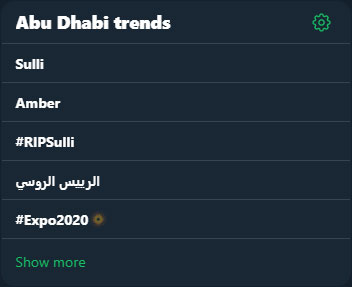
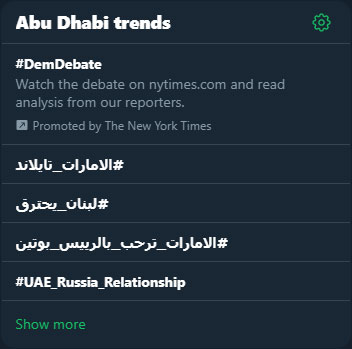
Update

diff --git a/_posts/2019-10-24-eliminate-distractions.md b/_posts/2019-10-24-eliminate-distractions.md
@@ -20,7 +20,27 @@ People talk about social media as if it's always a negative thing and you need t
 
 Think about what you want out of social media and if there's a way to get it. I can use Twitter for my stated purpose by checking it once a day in a 5-15 minute block. Same with Facebook.
 
-## Make Twitter's trending hashtags boring
+## Schedule time for email, texts, and social media
+
+If you've taken some time to reflect on what you want from social media, hopefully your answer isn't, "Email and social media are my taskmasters, so I must check in with them every 15 minutes to decide on my next task." No, once you decide what you want from those tools and how much time you need to invest to get that benefit, schedule it.
+
+This is easiest with social media because there's rarely urgent, critical tasks that result from you checking your Facebook feed.
+
+I'm more present in social situations. I was always a firm believer in "don't interrupt a real life interaction to check your phone." But if my friend went to the bathroom or they had to take a call or something, I'd check my email and texts. I didn't think anything of it, but I realized a huge difference once I committed to not doing that.
+
+Checked Twitter and was in a bad mood because someone said something I found really obnoxious.
+
+I check once I get home.
+
+I schedule
+
+Social media becomes less interesting
+
+Don't check your texts in social situations or during brief breaks.
+
+## Twitter
+
+### Make Twitter's trending hashtags boring
 
 {% include image.html file="twitter-trending.jpg" alt="Twitter's trending topics" max_width="800px" img_link=true class="img-border" fig_caption="Twitter shows you trending topics to seduce you into spending more time in the app." %}
 
@@ -34,7 +54,7 @@ TODO: Replace with better Abu Dhabi.
 
 {% include image.html file="abu-dhabi-trends.jpg" alt="Twitter's trending topics" max_width="352px" img_link=true fig_caption="Twitter shows you trending topics to seduce you into spending more time in the app." %}
 
-## Mute, block, and unfollow your way to a tidy Twitter feed
+### Mute, block, and unfollow your way to a tidy Twitter feed
 
 I enjoyed following celebrities and comedians because they were entertaining, but I realized they were distracting me from my intended purpose on Twitter, which is to maintain professional connections and see when people post interesting technical content.
 
@@ -48,45 +68,36 @@ I think the news is important, but Twitter is not an effective way for me to con
 
 Block celebrities and politicians.
 
-## Hide StackOverflow / StackExchange: ignore "hot" questions
+## StackOverflow / StackExchange
+
+### Ignore "hot questions"
 
 Joke StackOverflow questions:
   * One of my co-workers has no reflection and is constantly drinking blood. Is It Elizabeth Holmes?
   * My (married) manager is currently having a heart attack. Is it inappropriate for me to perform CPR?
   * Accidentally proved P=NP
 
-
-
 Only in writing this article did I realize StackExchange offers a setting so you can disable this natively. In Site Settings > Preferences, you can check "Hide Hot Network Questions":
-
 
 {% assign fig_caption = 'Disable "Hot Network Questions" in [StackOverflow settings](https://stackoverflow.com/users/preferences/) to eliminate distracting questions.' | markdownify | remove: "<p>" | remove: "</p>" %}
 
 {% include image.html file="stackoverflow-settings.jpg" alt="Screenshot of StackOverflow's settings page" max_width="800px" img_link=true class="img-border" fig_caption=fig_caption %}
 
-## Hide your Gmail inbox
+## Email
 
-Inbox when ready
+### Hide your Gmail inbox
+
+A frequent source
+
+[Inbox When Ready](https://inboxwhenready.org/).
+
+If you use a mail client like Outlook or Thunderbird, you can replicate this by disabling automatic e-mail checking.
 
 Haven't solved this on the phone
 
 You can still allow through high-priority emails. You can still check on high-priority threads with search.
 
-## Unbundle Hangouts from Gmail
-
-{% include image.html file="hangouts-in-gmail.jpg" alt="Chat settings in Gmail" max_width="800px" img_link=true class="img-border" fig_caption="By default, Gmail embeds Hangouts into your inbox." %}
-
-{% assign fig_caption = "Disabling chat in [Gmail settings](https://mail.google.com/mail/u/0/#settings/chat)" | markdownify | remove: "<p>" | remove: "</p>" %}
-
-{% include image.html file="gmail-disable-chat.jpg" alt="Chat settings in Gmail" max_width="821px" img_link=true class="img-border" fig_caption=fig_caption %}
-
-## Break your bad habits with obstacles
-
-* Uninstall social media apps from your phone
-* Move social media into separate browser profiles
-* Lock down social media from the browser to limit tracking
-
-## Move your to-do list out of your inbox
+### Move your to-do list out of your inbox
 
 At this point, "don't use your inbox as a to-do list" is pretty cliche advice, but I'll say it anyway. The biggest problem is that if your inbox and your to-do list are the same thing, it's impossible for you to check your to-do list without seeing new emails come in.
 
@@ -96,11 +107,19 @@ Data remanence.
 
 It's bad at prioritizing
 
-## Schedule time for social media
+### Unbundle Hangouts from Gmail
 
-I schedule
+{% include image.html file="hangouts-in-gmail.jpg" alt="Chat settings in Gmail" max_width="800px" img_link=true class="img-border" fig_caption="By default, Gmail embeds Hangouts into your inbox." %}
 
-Social media becomes less interesting
+{% assign fig_caption = "Disabling chat in [Gmail settings](https://mail.google.com/mail/u/0/#settings/chat)" | markdownify | remove: "<p>" | remove: "</p>" %}
+
+{% include image.html file="gmail-disable-chat.jpg" alt="Chat settings in Gmail" max_width="821px" img_link=true class="img-border" fig_caption=fig_caption %}
+
+## Browse social media with a dedicated browser profile
+
+* Uninstall social media apps from your phone
+* Move social media into separate browser profiles
+* Lock down social media from the browser to limit tracking
 
 ## Set your phone to "Do Not Disturb" forever
 
@@ -108,7 +127,7 @@ My phone has been continuously on "Do Not Disturb" mode for the last 18 months. 
 
 Did this by mistake.
 
-Tried to whitelist callers but it didn't work
+Tried to whitelist callers but it didn't work.
 
 ## Replace texts with phone calls
 
@@ -120,19 +139,23 @@ Technique I stole from my friend [David Toth](https://twitter.com/jupiterunknown
 
 ## Accept boredom
 
-* Talk about *Deep Work*
+* Talk about *Deep Work* ([my notes](/book-reports/deep-work/))
 
 ## Starting is the hardest part
 
-When I first started waiting until after noon
+The hardest part is starting these habits, but once I did them for a few days, they become exponentially easier. One of the earliest things I did was to defer checking my email until 10 am instead of right when I woke up. It felt so difficult, and I kept feeling compelled to check my email to satisfy my curiosity about what's there.
 
-## Be vigilant
+After a week, I no longer felt the temptation when I woke up. By two weeks, I almost dreaded checking my email. My mornings had become so peaceful and productive. Once I checked my email, I was opening the door to whatever stresses awaited me there.
 
-Notice apps that drag you back in. Put obstacles in front of them.
+Today, I don't check my email until after I eat lunch.
 
 ## If you backslide, just start over
 
 Some days, I'm obsessively checking texts and email. It feeds on itself.
+
+## Be vigilant
+
+Notice apps that drag you back in. Eliminate distractions and put obstacles in front of them.
 
 ---
 
